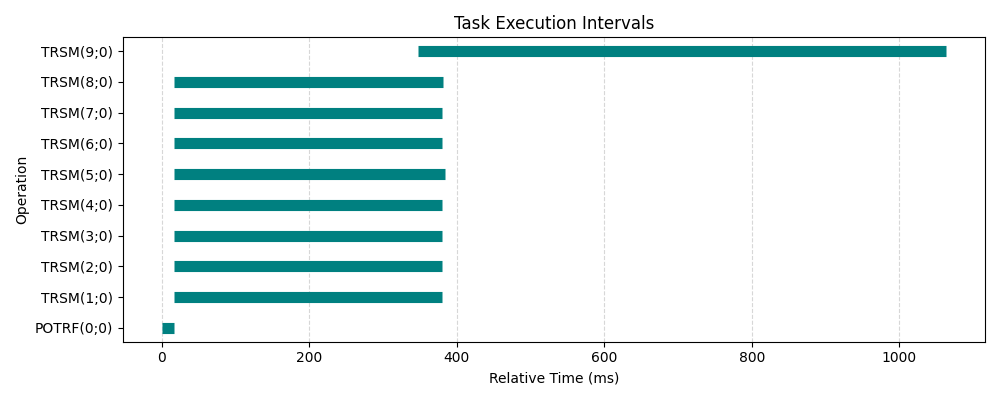
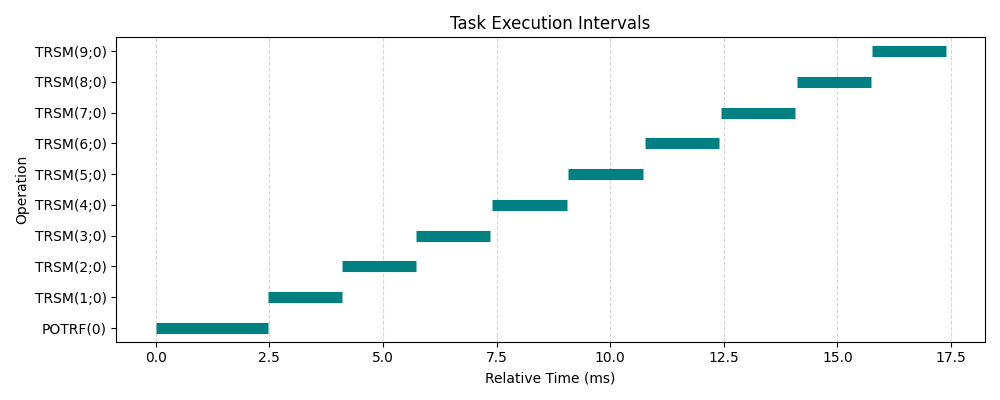
task executiontimes

diff --git a/result-processing/display_runtimes.py b/result-processing/display_runtimes.py
@@ -1,20 +1,55 @@
+import numpy as np
 import pandas as pd
 import matplotlib.pyplot as plt
 
-df = pd.read_csv('/data/users/sargent/dvfs_thesis/local_jobs/L26-cholesky/timings_pe0.csv')
-df = df.head(10)
 
-min_ts = df['start_ts'].min()
-df['rel_start'] =( df['start_ts'].astype(int) - min_ts) / 1000_000
-df['rel_end'] = ( df['end_ts'].astype(int) - min_ts ) / 1000_000 
+# df = pd.read_csv('/data/users/sargent/dvfs_thesis/homogenous-retune-best-parameters/cholesky_2040/profile/profile_pe0.csv')
+# df = df.head(10)
 
-plt.figure(figsize=(10, 4))
-for i, row in df.iterrows():
-    plt.hlines(y=row['op_name'], xmin=row['rel_start'], xmax=row['rel_end'], linewidth=8, color='teal')
+# min_ts = df['start_ts'].min()
+# df['rel_start'] =( df['start_ts'].astype(int) - min_ts) / 1000_000
+# df['rel_end'] = ( df['end_ts'].astype(int) - min_ts ) / 1000_000 
 
-plt.xlabel('Relative Time (ms)')
-plt.ylabel('Operation')
-plt.title('Task Execution Intervals')
-plt.grid(axis='x', linestyle='--', alpha=0.5)
-plt.tight_layout()
-plt.savefig('timeline.png')
+# plt.figure(figsize=(10, 4))
+# for i, row in df.iterrows():
+#     plt.hlines(y=row['op_name'], xmin=row['rel_start'], xmax=row['rel_end'], linewidth=8, color='teal')
+
+# plt.xlabel('Relative Time (ms)')
+# plt.ylabel('Operation')
+# plt.title('Task Execution Intervals')
+# plt.grid(axis='x', linestyle='--', alpha=0.5)
+# plt.tight_layout()
+# plt.savefig('timeline.png')
+
+
+#
+# 
+#
+def load_runtimes(file):
+    df = pd.read_csv(file)
+    return (df['end_ts'].astype(int) - df['start_ts'].astype(int)) / 1_000_000
+
+
+def runtime_histogram(runtimes, out, bins, ylim):
+    plt.figure(figsize=(10, 5))
+    plt.hist(runtimes, bins=bins)
+    plt.xlim(bins[0], bins[-1])
+    plt.ylim(ylim)
+    plt.xlabel('executiontime (ms)')
+    plt.ylabel('Count')
+    plt.title('Task executiontime')
+    plt.tight_layout()
+    plt.savefig(out)
+    plt.close()
+
+
+BASE = '/data/users/sargent/dvfs_thesis/homogenous-retune-best-parameters'
+for benchmark in ['cholesky', 'lu']:
+    data = {freq: load_runtimes(f'{BASE}/{benchmark}_{freq}/profile/profile_pe0.csv')
+            for freq in [240, 2040]}
+    all_runtimes = pd.concat(data.values())
+    xlim = (all_runtimes.min(), all_runtimes.max())
+    bins = np.linspace(*xlim, 31)
+    ylim = (0, max(np.histogram(rt, bins=bins)[0].max() for rt in data.values()) * 1.05)
+    for freq, runtimes in data.items():
+        runtime_histogram(runtimes, f'histogram_executiontimes_{benchmark}_{freq}.png', bins, ylim)

diff --git a/result-processing/task_profiles.py b/result-processing/task_profiles.py
@@ -1,0 +1,6 @@
+
+
+
+#
+# 
+#
